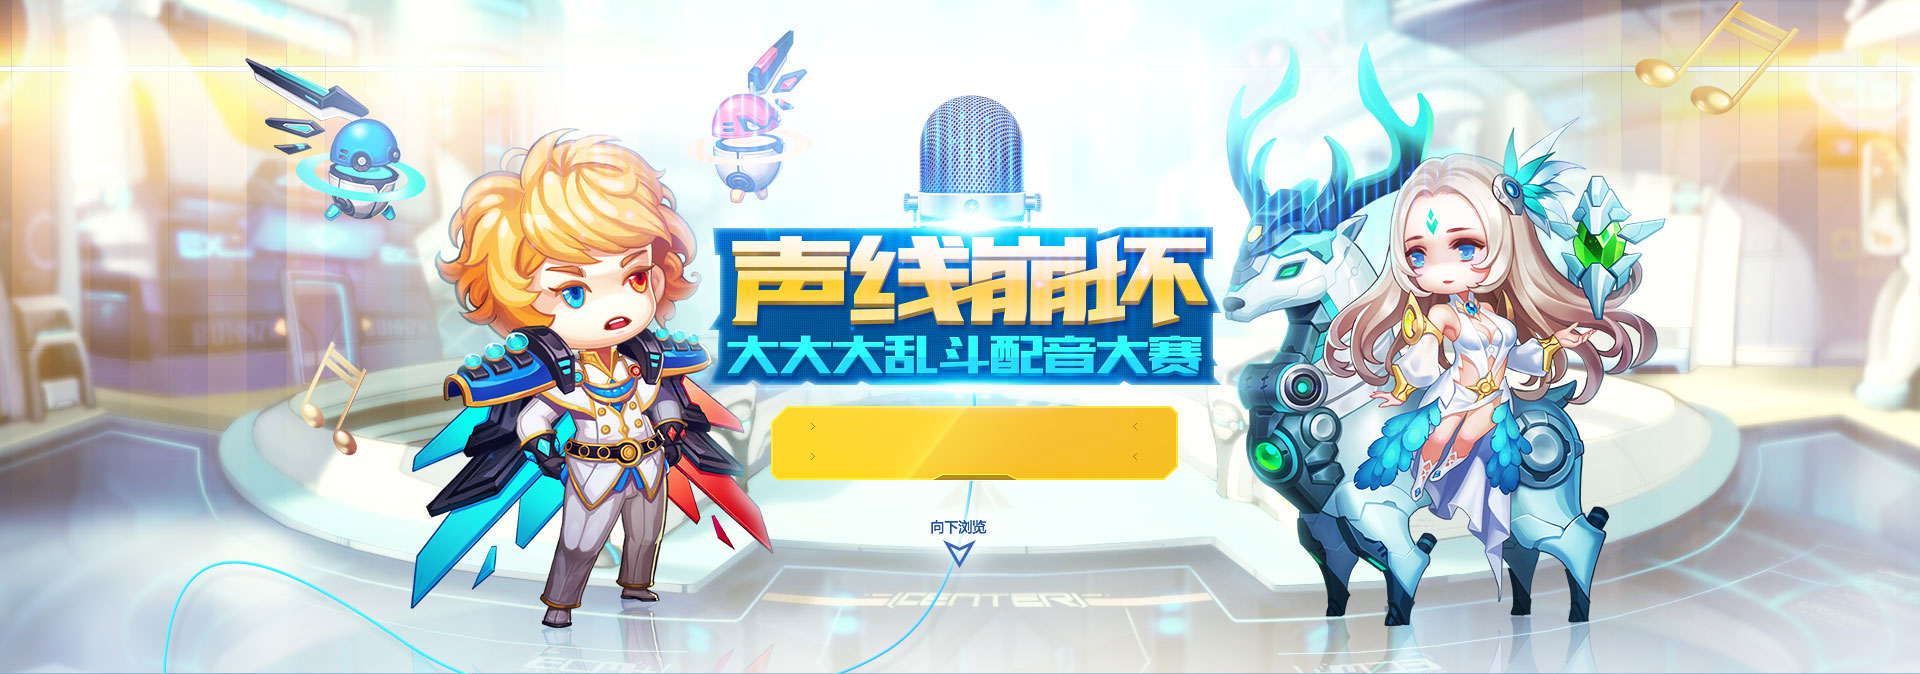
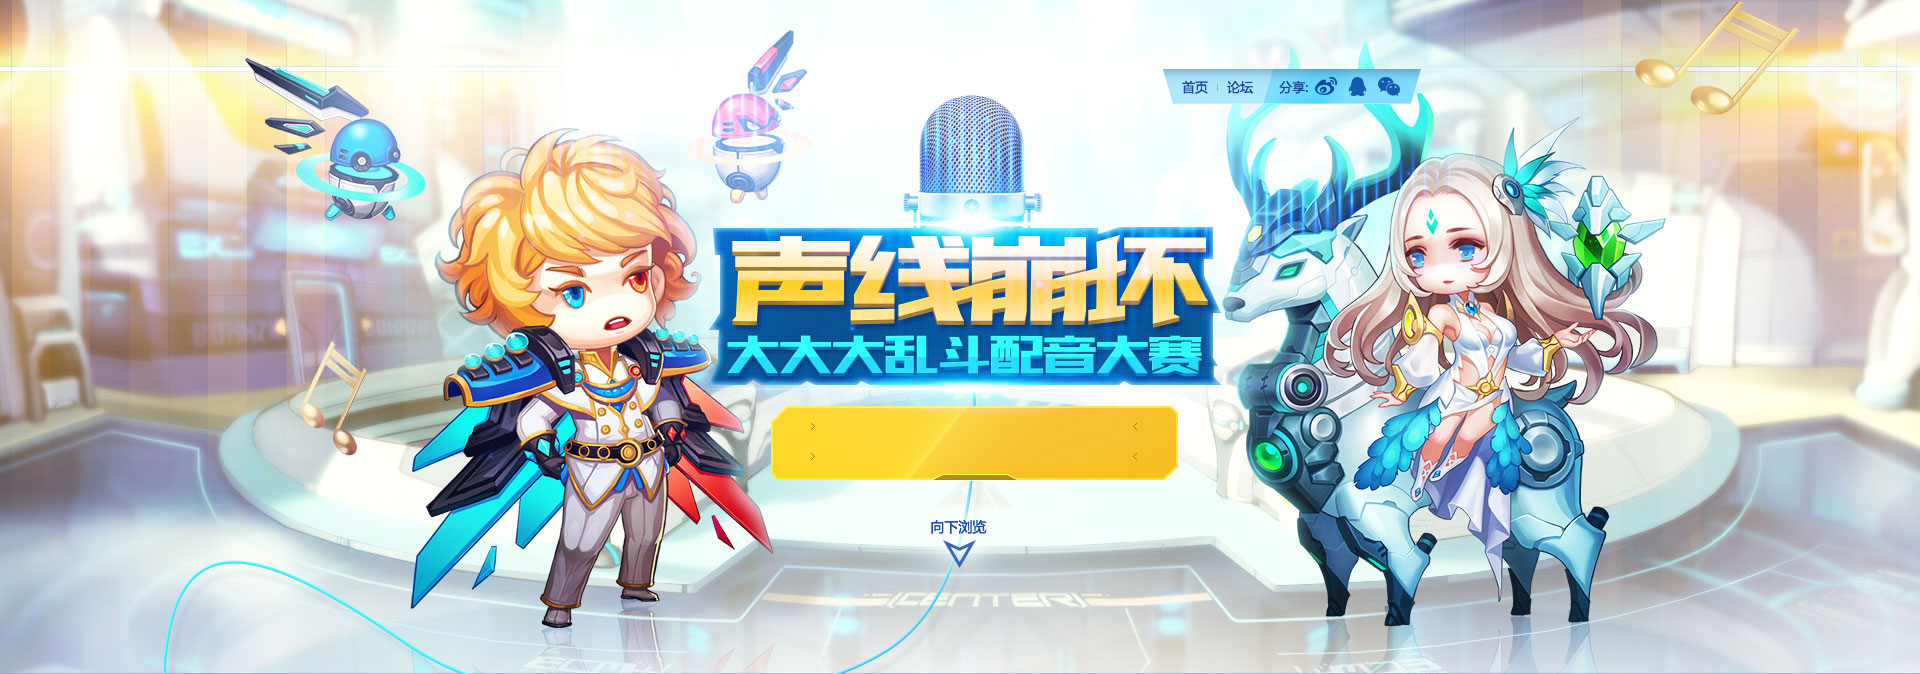
pc完成

Changed region(s): [[0.5938, 0.0935, 0.75, 0.1558]]

diff --git a/eos/201510/daluandou/pc/index.html b/eos/201510/daluandou/pc/index.html
@@ -17,12 +17,24 @@
                 <a class="logo2" href="javascript:">
                     <img src="img/logo2.png" width="102" height="102" alt="boom">
                 </a>
-                <a class="logo" href="javascript:">
+                <a class="logo" href="index.html">
                     <img src="img/logo.png" width="217" height="96" alt="logo">
                 </a>
                 <div class="link pos">
                     <a class="first" href="javascript:">Cosplay大赛</a>
                     <a class="last active-color" href="javascript:">配音大赛</a>
+                </div>
+                <div class="right-share">
+                    <a href="javascript:"></a>
+                    <a href="javascript:"></a>
+                    <!-- JiaThis Button BEGIN -->
+                    <div class="jiathis_style_24x24">
+                        <a class="jiathis_button_tsina"></a>
+                        <a class="jiathis_button_cqq"></a>
+                        <a class="jiathis_button_weixin"></a>
+                    </div>
+                    <script type="text/javascript" src="http://v3.jiathis.com/code/jia.js" charset="utf-8"></script>
+                    <!-- JiaThis Button END -->
                 </div>
                 <div class="active-time">
                     <p><strong>投稿</strong>时间：<span>2016年9月1日—9月13日</span></p>
@@ -36,7 +48,9 @@
             <div class="show-lists pos">
                 <ul>
                     <li>
-                        <img src="img/game-person.png" alt="作品图片">
+                        <div class="work-img-wrap">
+                            <img src="img/game-person.png" alt="作品图片">
+                        </div>
                         <div class="voice">
                             <button></button>
                             <audio loop="loop" src="img/7776.wav" controls="controls"></audio>
@@ -48,7 +62,9 @@
                         </div>
                     </li>
                     <li>
-                        <img src="img/game-person.png" alt="作品图片">
+                        <div class="work-img-wrap">
+                            <img src="img/game-person.png" alt="作品图片">
+                        </div>
                         <div class="voice">
                             <button></button>
                             <audio loop="loop" src="img/7776.wav" controls="controls"></audio>
@@ -60,7 +76,9 @@
                         </div>
                     </li>
                     <li>
-                        <img src="img/game-person.png" alt="作品图片">
+                        <div class="work-img-wrap">
+                            <img src="img/game-person.png" alt="作品图片">
+                        </div>
                         <div class="voice">
                             <button></button>
                             <audio loop="loop" src="img/7776.wav" controls="controls"></audio>
@@ -72,7 +90,9 @@
                         </div>
                     </li>
                     <li>
-                        <img src="img/game-person.png" alt="作品图片">
+                        <div class="work-img-wrap">
+                            <img src="img/game-person.png" alt="作品图片">
+                        </div>
                         <div class="voice">
                             <button></button>
                             <audio loop="loop" src="img/7776.wav" controls="controls"></audio>
@@ -84,7 +104,9 @@
                         </div>
                     </li>
                     <li>
-                        <img src="img/game-person.png" alt="作品图片">
+                        <div class="work-img-wrap">
+                            <img src="img/game-person.png" alt="作品图片">
+                        </div>
                         <div class="voice">
                             <button></button>
                             <audio loop="loop" src="img/7776.wav" controls="controls"></audio>
@@ -96,7 +118,9 @@
                         </div>
                     </li>
                     <li>
-                        <img src="img/game-person.png" alt="作品图片">
+                        <div class="work-img-wrap">
+                            <img src="img/game-person.png" alt="作品图片">
+                        </div>
                         <div class="voice">
                             <button></button>
                             <audio loop="loop" src="img/7776.wav" controls="controls"></audio>
@@ -129,7 +153,7 @@
     </div>
     <div class="works-way wrap">
         <div class="works-way-content wrap-main">
-            <div class="way-info">
+            <div class="way-info f-l">
                 <h3><strong>作品上传方式</strong></h3>
                 <p>从配音台词中任选一条或几条，将配音作品统一发送至《大大大乱斗》配音大赛指定邮箱：<br><a href="mailto:dddldcv@163.com" class="email">dddldcv@163.com</a></p>
                 <div class="format">
@@ -146,6 +170,7 @@
                 </div>
                 <h5>附件：上传相应配音文件，MP3格式</h5>
             </div>
+            <p class="wx f-l">dddluandou</p>
         </div>
     </div>
     <div class="dub-lists wrap">
@@ -235,5 +260,8 @@
     </div>
 <script type="text/javascript" src="../../../../all/js/jquery-1.8.3.min.js"></script>
 <script type="text/javascript" src="js/index.js"></script>
+<script type="text/javascript">
+
+</script>
 </body>
 </html>

diff --git a/eos/201510/daluandou/pc/css/style.css b/eos/201510/daluandou/pc/css/style.css
@@ -79,6 +79,19 @@ button {
     height: 376px;
     background-image: url("../img/bg5.jpg");
 }
+.dub-lists-content li:hover p {
+    background-color: #FF821C;
+    color: #fff;
+    border-color: #FF821C;
+}
+.dub-lists-content .right-lists li:hover p:before,
+.dub-lists-content li:hover p:before {
+    border-right-color: #FF821C;
+}
+.dub-lists-content .right-lists li:hover p:after,
+.dub-lists-content li:hover p:after {
+    border-right-color: #FF821C;
+}
 
 /*header*/
 .header-top-bg {
@@ -175,8 +188,18 @@ button {
     margin-right: 19px;
     height: 335px;
 }
-.show-lists li img {
-
+.show-lists li .work-img-wrap {
+    position: relative;
+    width: 123px;
+    height: 152px;
+    text-align: center;
+    overflow: hidden;
+}
+.show-lists li .work-img-wrap img {
+    position: absolute;
+    left: 0;
+    bottom: 0;
+    height: auto;
 }
 .show-lists li .voice {
     padding-top: 11px;
@@ -184,6 +207,7 @@ button {
     display: block;
     width: 124px;
     height: 40px;
+    cursor: pointer;
 }
 .show-lists .voice button {
     cursor: pointer;
@@ -255,9 +279,16 @@ button {
     text-decoration: underline;
 }
 
+.works-way-content .wx {
+    padding-left: 61px;
+    padding-top: 415px;
+    font-size: 18px;
+    color: #FAE80D;
+}
 .way-info{
     padding-top: 107px;
     padding-left: 35px;
+    padding-right: 58px;
     width: 285px;
     height: 380px;
     font-size: 14px;
@@ -329,6 +360,9 @@ button {
     border-right-color: #517cbb;
     border-width: 7px;
     margin-top: -7px;
+}
+.dub-lists-content .right-lists li p:after {
+    border-right-color: #F0F1F3;
 }
 .dub-lists-main {
     padding-top: 93px;
@@ -418,4 +452,28 @@ button {
 .active-rule-content .last {
     width: 480px;
     padding-left: 20px;
+}
+
+.right-share {
+    position: absolute;
+    right: 39px;
+    top: 70px;
+    padding-left: 18px;
+    padding-top: 5px;
+    width: 240px;
+    height: 30px;
+    line-height: 35px;
+    text-align: right;
+}
+.right-share > a {
+    padding-left: 5px;
+    padding-right: 5px;
+    width: 24px;
+    height: 24px;
+}
+.jiathis_style_24x24 > a {
+    opacity: 0;
+}
+.jiathis_button_tsina {
+    margin-left: 67px;
 }
